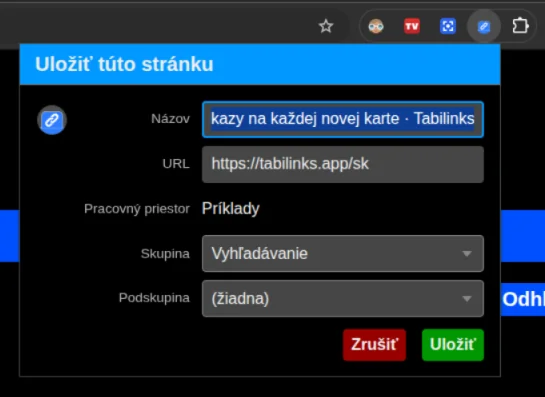
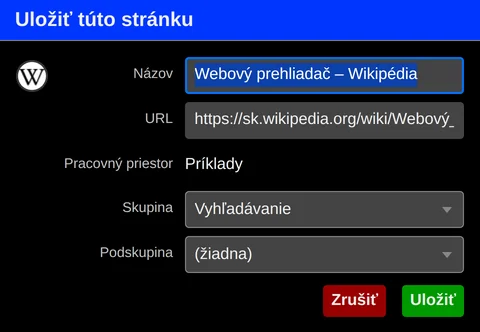
Tips: pictures for the five newer tips

diff --git a/public/content/tips/sk/bookmark-into-new-group.md b/public/content/tips/sk/bookmark-into-new-group.md
@@ -7,8 +7,12 @@ Keď ukladáte stránku cez okno záložiek - tlačidlom rozšírenia v hornej l
 - Pracovný priestor, ktorý ešte nemá žiadnu skupinu, sa otvorí rovno na „Nová skupina…“ s názvom **„Nezaradené“**, ak ho nezmeníte - stránka má teda vždy kam ísť.
 - Ak profil nemá vôbec žiadny pracovný priestor, okno sa spýta aj na jeho názov.
 
+![Uloženie stránky do novej skupiny: vybraná „Nová skupina…“ a jej názov](../../../images/sk/tips/bookmark-into-new-group/nova-skupina_1x.webp)
+
 Nová skupina je obyčajná skupina: neskôr ju môžete premenovať, presunúť alebo do nej presúvať odkazy ako do ktorejkoľvek inej.
 
 To isté okno sa otvorí aj tlačidlom „+“ pri zatvorenej karte alebo stránke v histórii, takže aj to, čo tam nájdete, môžete roztriediť do novej skupiny.
+
+![Tlačidlo „+“ pri zatvorenej karte otvorí to isté okno](../../../images/sk/tips/bookmark-into-new-group/panel-ulozit_1x.webp)
 
 - [Uložiť práve prezeranú stránku](saving-from-webpage.md)

diff --git a/public/content/tips/sk/setup-privacy.md b/public/content/tips/sk/setup-privacy.md
@@ -2,6 +2,8 @@
 
 Všetko o tom, čo sa zaznamenáva a čo opúšťa váš prehliadač, nájdete na jednom mieste: v nastaveniach rozšírenia, v sekcii **„Synchronizácia a súkromie“**.
 
+![Nastavenia, „Synchronizácia a súkromie“](../../../images/sk/tips/setup-privacy/nastavenia-sukromie_1x.webp)
+
 - **Synchronizovať tento prehliadač** – kým ste prihlásení, odkazy, nastavenia a zoznamy nižšie sa z tohto prehliadača synchronizujú s vaším účtom. Keď to vypnete, zostanete prihlásení a prémium platí, ale nič sa neodosiela ani neprijíma. Nastavuje sa pre každý prehliadač zvlášť.
 - **Zaznamenávať zatvorené karty** – uchováva zoznam kariet, ktoré zatvoríte, v bočnom paneli. Predvolene zapnuté. Vypnutím sa zoznam vymaže, tu aj vo vašom účte.
   - **Synchronizovať zatvorené karty** – zdieľať ich s ostatnými zariadeniami, alebo ich nechať len v tomto prehliadači.

diff --git a/public/content/tips/en/bookmark-into-new-group.md b/public/content/tips/en/bookmark-into-new-group.md
@@ -7,8 +7,12 @@ When you save a page with the bookmarking window - the extension's button in the
 - A workspace with no group yet opens on "New group…" straight away, named **"Ungrouped"** unless you change it - so a page always has somewhere to go.
 - If the profile has no workspace at all, the window asks for the workspace's name as well.
 
+![Saving a page into a new group: "New group…" chosen and named](../../../images/en/tips/bookmark-into-new-group/nova-skupina_1x.webp)
+
 The new group is an ordinary group: rename it, move it or drag links into it later, like any other.
 
 The same window opens from the "+" next to a closed tab or a page in the history, so you can sort what you find there into a new group too.
+
+![The "+" next to a closed tab opens the same window](../../../images/en/tips/bookmark-into-new-group/panel-ulozit_1x.webp)
 
 - [Save the page you are viewing](saving-from-webpage.md)

diff --git a/public/content/tips/en/setup-privacy.md b/public/content/tips/en/setup-privacy.md
@@ -2,6 +2,8 @@
 
 Everything about what is recorded and what leaves your browser is in one place: the extension settings, section **"Sync & privacy"**.
 
+![Settings, "Sync & privacy"](../../../images/en/tips/setup-privacy/nastavenia-sukromie_1x.webp)
+
 - **Synchronise this browser** – while you are signed in, this browser's links, settings and the lists below are synchronized with your account. Turn it off and you stay signed in, premium still applies, but nothing is sent or received. It is set per browser.
 - **Record closed tabs** – keeps the list of tabs you close in the side panel. On by default. Turning it off deletes the list, here and on your account.
   - **Synchronise closed tabs** – share them with your other devices, or keep them on this browser alone.

diff --git a/public/content/tips/sk/use-drag-and-drop.md b/public/content/tips/sk/use-drag-and-drop.md
@@ -10,4 +10,8 @@ Môžete:
 - pretiahnuť odkaz z „Nedávno zavreté karty“ a uložiť ho do skupiny alebo podskupiny
 - zmazať odkaz pustením na pruh v spodnej časti stránky, ktorý sa počas ťahania zmení na kôš
 
+![Presúvanie odkazu: čiara ukazuje, kam odkaz padne, a pruh dole sa zmení na kôš](../../../images/sk/tips/use-drag-and-drop/presun-odkazu_1x.webp)
+
 Ťahanie myšou je zapnuté od začiatku. Ak nechcete položky omylom presúvať, vypnete ho v nastaveniach rozšírenia, v sekcii „Vzhľad a správanie“, odškrtnutím „Zapnúť ťahanie myšou“.
+
+![„Zapnúť ťahanie myšou“ v nastaveniach](../../../images/sk/tips/use-drag-and-drop/nastavenia-presun_1x.webp)

diff --git a/public/content/tips/en/use-drag-and-drop.md b/public/content/tips/en/use-drag-and-drop.md
@@ -10,4 +10,8 @@ You can:
 - drag a link from "Recently closed tabs" and save it to a group or subgroup
 - delete a link by dropping it on the bar at the bottom of the page, which turns into a trash while you drag
 
+![Dragging a link: the line shows where it lands, the bar at the bottom turns into a trash](../../../images/en/tips/use-drag-and-drop/presun-odkazu_1x.webp)
+
 Drag and drop is on from the start. If you would rather not move things by accident, turn it off in the extension settings under "UI and behavior" by unchecking "Enable drag & drop".
+
+!["Enable drag & drop" in the settings](../../../images/en/tips/use-drag-and-drop/nastavenia-presun_1x.webp)

diff --git a/public/content/tips/en/saving-from-webpage.md b/public/content/tips/en/saving-from-webpage.md
@@ -11,4 +11,4 @@ An example of quick saving - you fill in nothing, the link is saved straight int
 
 The standard save dialog, opened by the keyboard shortcut or by the extension's button in the browser's top bar:
 
-![The standard save dialog](../../../images/sk/tips/saving-from-webpage/2_1x.webp)
+![The standard save dialog](../../../images/en/tips/saving-from-webpage/2_1x.webp)

diff --git a/public/content/tips/sk/discover-premium-features.md b/public/content/tips/sk/discover-premium-features.md
@@ -12,6 +12,8 @@
 
 _\* Platia [Zásady primeraného používania](/fair-use)._
 
+![„Prejsť na prémiovú verziu“ v ponuke aplikácie](../../../images/sk/tips/discover-premium-features/premium-menu_1x.webp)
+
 Plnú verziu je možné aktivovať v nastaveniach používateľského účtu: 
 
 - [Nastavenia užívateľského účtu](/account)

diff --git a/public/content/tips/en/discover-premium-features.md b/public/content/tips/en/discover-premium-features.md
@@ -12,6 +12,8 @@ What the paid version gives you:
 
 _\* Subject to the [Fair Use Policy](/fair-use)._
 
+!["Upgrade to premium" in the application menu](../../../images/en/tips/discover-premium-features/premium-menu_1x.webp)
+
 The full version can be activated in your account settings:
 
 - [Account settings](/account)
